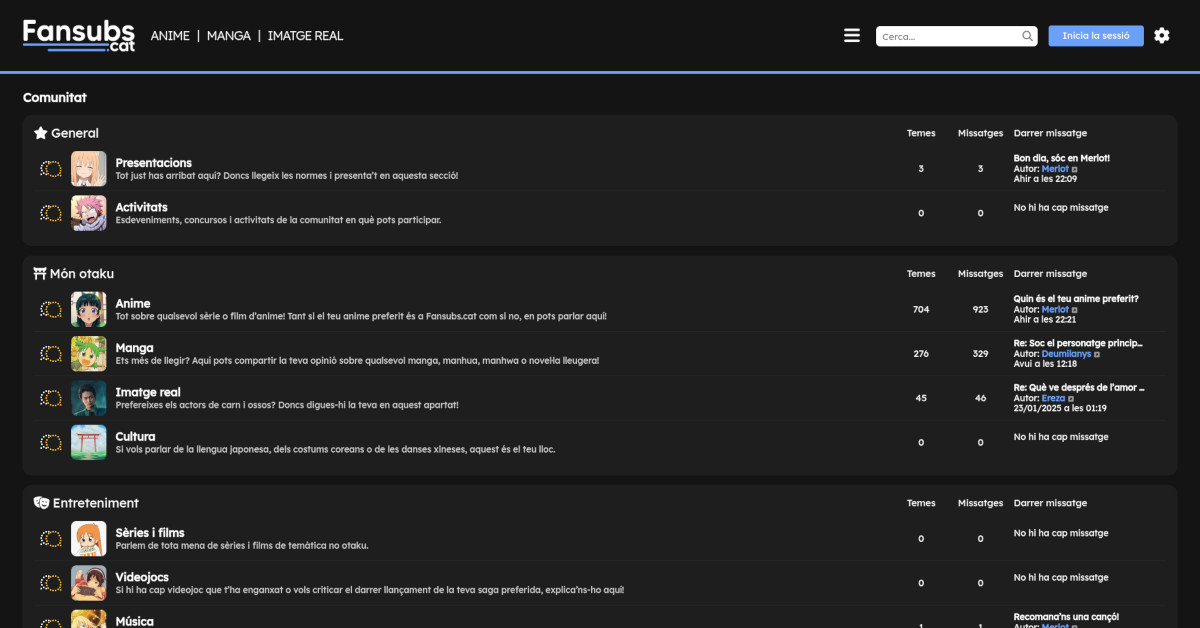
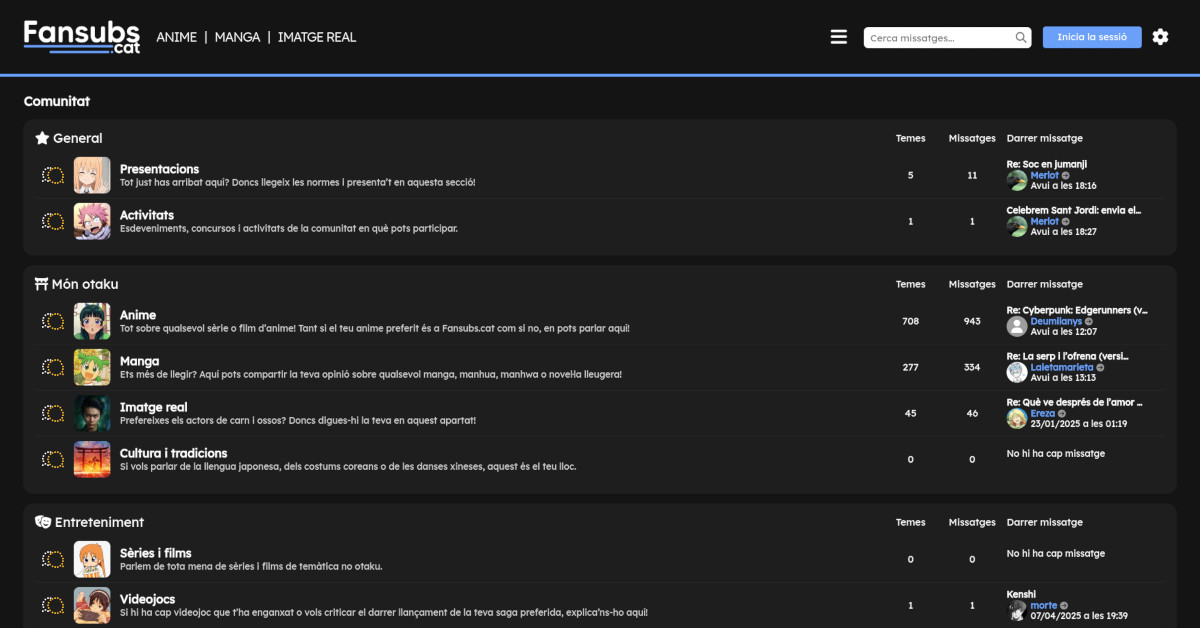
Fix warning in lastpostavatar, add special slide to recommendation carousel, add missing assets, add forum images

diff --git a/websites/community/styles/fansubscat/theme/fansubscat_forum.css b/websites/community/styles/fansubscat/theme/fansubscat_forum.css
@@ -335,6 +335,7 @@ body {
 }
 
 .forum-image img {
+	border-radius: 0.8rem;
 	width: 56px;
 	height: 56px;
 }

diff --git a/websites/community/ext/bb3mobi/lastpostavatar/event/listener.php b/websites/community/ext/bb3mobi/lastpostavatar/event/listener.php
@@ -141,12 +141,14 @@ class listener implements EventSubscriberInterface
 			$tpl_ary['LAST_POST_AUTHOR_FULL'] .= '<span class="lastpostavatar responsive-hide">' . $this->avatar_img_resize($row) . '</span>';
 		}
 		
-		$row['user_avatar'] = $row['first_poster_user_avatar'];
-		$row['user_avatar_type'] = $row['first_poster_user_avatar_type'];
-		$row['user_avatar_width'] = $row['first_poster_user_avatar_width'];
-		$row['user_avatar_height'] = $row['first_poster_user_avatar_height'];
-		
-		$tpl_ary['POST_AUTHOR_AVATAR'] = '<span class="firstpostavatar responsive-hide">' . $this->avatar_img_resize($row) . '</span>';
+		if (isset($row['first_poster_user_avatar'])) {
+			$row['user_avatar'] = $row['first_poster_user_avatar'];
+			$row['user_avatar_type'] = $row['first_poster_user_avatar_type'];
+			$row['user_avatar_width'] = $row['first_poster_user_avatar_width'];
+			$row['user_avatar_height'] = $row['first_poster_user_avatar_height'];
+			
+			$tpl_ary['POST_AUTHOR_AVATAR'] = '<span class="firstpostavatar responsive-hide">' . $this->avatar_img_resize($row) . '</span>';
+		}
 		
 		$event['tpl_ary'] = $tpl_ary;
 	}

diff --git a/websites/catalogue/results.php b/websites/catalogue/results.php
@@ -388,6 +388,21 @@ foreach($sections as $section){
 <?php
 			}
 			if ($section['type']=='recommendations') {
+				if (CATALOGUE_SPECIAL_TITLE!='') {
+?>
+							<div class="<?php echo $uses_swiper ? 'swiper-slide' : 'static-slide'; ?>">
+								<div class="recommendation special-day-header">
+									<img class="background" src="<?php echo STATIC_URL.'/images/site/background_dark'.(SITE_IS_HENTAI ? '_hentai' : '').'_hd.jpg'; ?>" alt="">
+									<div class="infoholder" data-swiper-parallax="-30%">
+										<div class="dataholder">
+											<div class="title"><span class="fa <?php echo CATALOGUE_SPECIAL_ICON; ?>"></span><br><?php echo CATALOGUE_SPECIAL_TITLE; ?></div>
+											<div class="divisions"><?php echo CATALOGUE_SPECIAL_DESCRIPTION; ?></div>
+										</div>
+									</div>
+								</div>
+							</div>
+<?php
+				}
 				if (is_user_birthday()) {
 ?>
 							<div class="<?php echo $uses_swiper ? 'swiper-slide' : 'static-slide'; ?>">

diff --git a/common/config/config.example.inc.php b/common/config/config.example.inc.php
@@ -52,6 +52,11 @@ define('INTERNAL_SERVICES_TOKEN', 'YOUR_TOKEN_HERE');
 //Populate this variable if you want to display a message on all listing pages
 define('GLOBAL_MESSAGE', '');
 
+//Populate this variable if you want to display a special message on the catalogue recommendation carousel
+define('CATALOGUE_SPECIAL_TITLE', '');
+define('CATALOGUE_SPECIAL_DESCRIPTION', '');
+define('CATALOGUE_SPECIAL_ICON', '');
+
 //Start year and date of your site
 define('STARTING_YEAR', 2020);
 define('STARTING_DATE', '2020-06-01');
